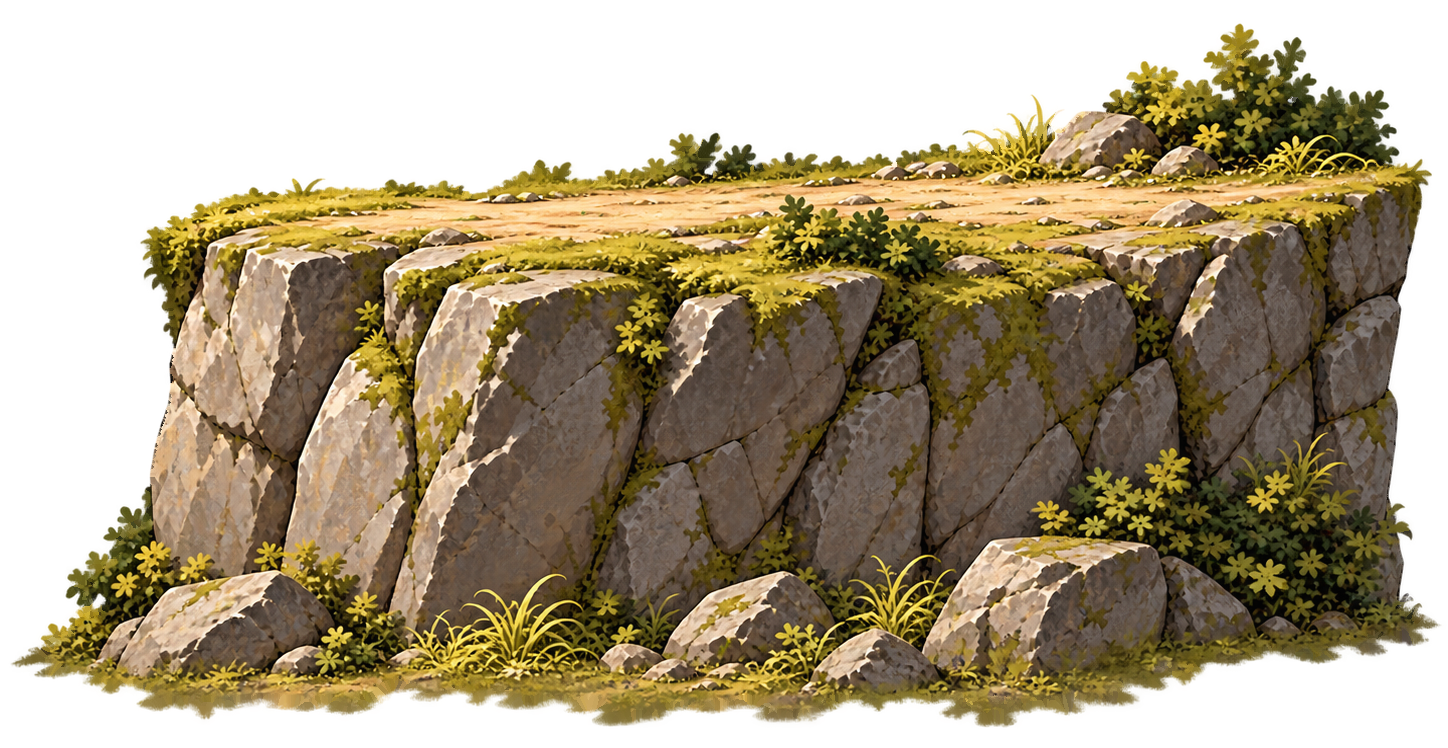
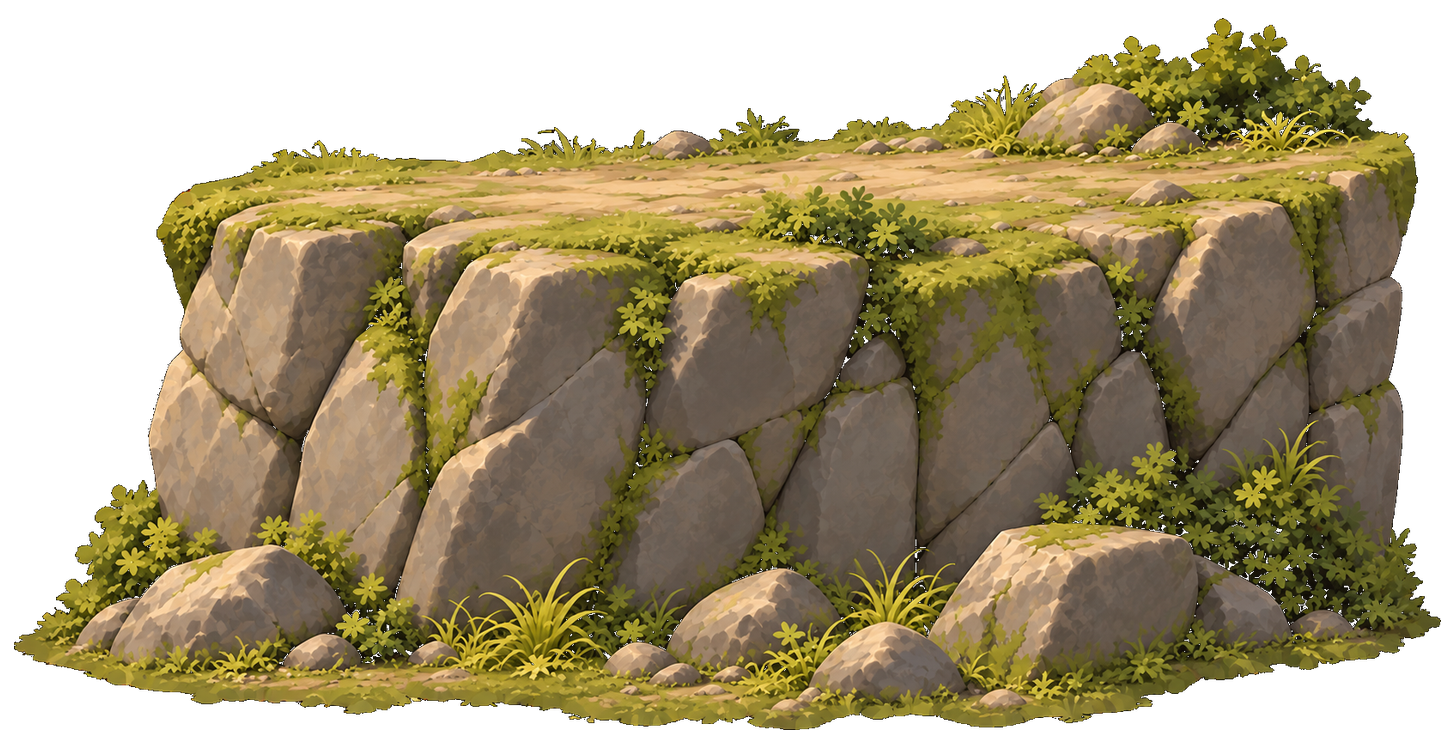
Add files via upload

diff --git a/README.md b/README.md
@@ -1,17 +1,12 @@
-# SideScroll v1.0.91 — Asset Lab → Biome Scale Sync
+# SideScroll Patch v1.0.92
 
-Code-only patch. Apply over `SS-PATCH-1.0.90`.
+Changed files only patch over **v1.0.91**.
 
-## What changed
+## Included
+- `mountain-climb-rock-01.png`
 
-- Asset Lab `Default Height` is now the source of truth for procedural Mountain asset size.
-- Mountain rocks, scrub trees and dry grasses keep their deterministic procedural size variation, but that variation is centred/scaled from the height authored in Asset Lab rather than a separate hard-coded biome value.
-- The same authored-height rule is wired into existing procedural Woodland trees and ground dressing without changing their established sizes unless an explicit Asset Lab height has been saved.
-- Returning to Play from Asset Lab through iOS back/forward cache refreshes the authored layout data and rebuilds an active Mountain candidate set automatically.
-- No Apply button or biome-profile resave is required after changing an asset height.
-
-## Files
-
-- `sidescroll.js`
-- `play.html`
-- `README.md`
+## Change
+- Replaces the original climbable rock asset with the newer image-generated repaint.
+- Keeps the same general silhouette/form while updating the styling to better match the newer mountain assets.
+- Colour balance is leaned slightly greener and less yellow than the older version.
+- Asset has been processed back into a transparent PNG and fitted to the previous asset canvas so it can drop in as a direct replacement.
